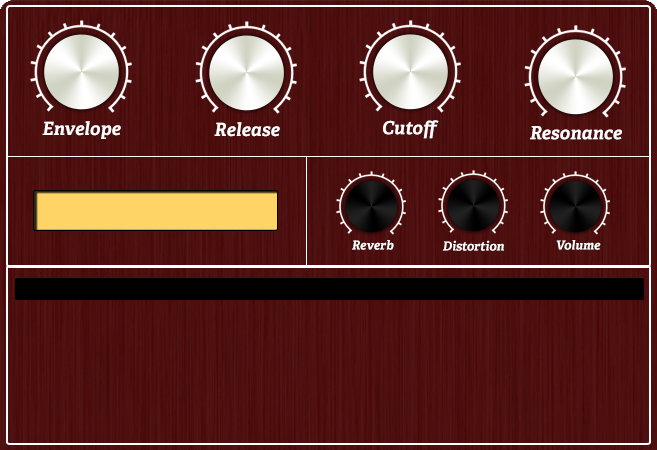
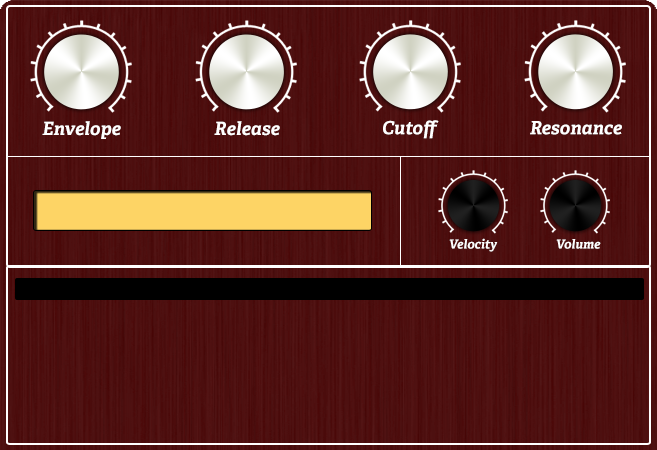
Fixed deck image Added knob controls + velocity knob. remover distortion and reverb

diff --git a/plugins/MorningStar/assets/js/synth.js b/plugins/MorningStar/assets/js/synth.js
@@ -21,7 +21,6 @@ MorningStarSynth.synth = {
     /* unsigned int */ resonance : 100,
     /* unsigned int */ volume : 100,
     /* unsigned int */ portamento : 64,
-    dist : 0
 };
 
 MorningStarSynth.synth.tanh = function (arg) {
@@ -79,14 +78,6 @@ if (len == 2) len = data[0].length;
             this.sample = this.sample * 0.5 + this.lastsample * 0.5;
             this.lastsample = this.sample;
             
-            if (this.IMPLEMENT_DISTORTION === true) {
-                // 0-value gives no distortion, bypass explicitly.
-                if ((this.dist >= 0) && (this.dist < 1)) {
-                    var k = 2 * this.dist / (1 - this.dist);
-                    this.sample += (1 + k) * this.sample / (1+ k * Math.abs(this.sample));
-                }
-            }
-            
             // Velocity control does nothing, had to use it as a gain here.
             var curr_sample = this.sample * (this.volume / 127) * (this.vel / 127) ;
             
@@ -128,28 +119,6 @@ MorningStarSynth.synth.init = function (sampleRate) {
     this.bypass = false;
 }
 
-MorningStarSynth.prototype.setConvoBuffer = function (response) {
-    this.response = response;
-}
-
-MorningStarSynth.prototype.createWSCurve = function (amount, n_samples) {
-    
-    if ((amount >= 0) && (amount < 1)) {
-        
-        MorningStarSynth.synth.dist = amount;
-
-        var k = 2 * MorningStarSynth.synth.dist / (1 - MorningStarSynth.synth.dist);
-
-        for (var i = 0; i < n_samples; i+=1) {
-            // LINEAR INTERPOLATION: x := (c - a) * (z - y) / (b - a) + y
-            // a = 0, b = 2048, z = 1, y = -1, c = i
-            var x = (i - 0) * (1 - (-1)) / (n_samples - 0) + (-1);
-            this.wsCurve[i] = (1 + k) * x / (1+ k * Math.abs(x));
-        }
-   
-    }
-}
-
 MorningStarSynth.prototype.process = function(event) {
     // Get left/right input and output arrays
     var outputArray = [];
@@ -166,36 +135,15 @@ MorningStarSynth.prototype.init = function (context, destination) {
 
     this.context = context;
 
-    this.setDistortion(0);
     MorningStarSynth.synth.init(this.context.sampleRate);
 
     this.source = this.context.createJavaScriptNode(this.nSamples);
     this.source.onaudioprocess = this.process;
 
-    // Create the convolution buffer from the impulse response
-    /* this.buffer = this.context.createBuffer(this.response, false);
-    console.log("convolution buffer passed");
-    this.convolver = this.context.createConvolver();
-    this.convolver.buffer = this.buffer; */
-    
-    /*this.convolver = this.context.createGainNode();
-    
-    // Create the sigmoid curve for  the waveshaper.
-    this.createWSCurve(MorningStarSynth.synth.dist, this.nSamples);
-    this.sigmaDistortNode = this.context.createWaveShaper();
-    this.sigmaDistortNode.curve = this.wsCurve;
-    this.sigmaDistortNode.connect(this.convolver);
-
-    // Connect the script node to the distorsor
-    this.source.connect(this.sigmaDistortNode);
-
-    // This gain note is not used at the moment.
     this.gainNode = this.context.createGainNode();
-    this.convolver.connect(this.gainNode);
+	this.source.connect(this.gainNode);
+    this.gainNode.connect(destination);
 
-    this.sigmaDistortNode.connect(destination);
-    this.gainNode.connect(destination);*/
-    this.source.connect(destination);
     
 };
 
@@ -222,6 +170,8 @@ MorningStarSynth.prototype.noteOff = function (noteNum) {
     }
 }
 
+// Setters
+
 MorningStarSynth.prototype.setCutoff = function (cutoffValue) {
     MorningStarSynth.synth.cutoff = cutoffValue;
 }
@@ -243,24 +193,39 @@ MorningStarSynth.prototype.setEnvelope = function (envValue) {
 }
 
 MorningStarSynth.prototype.setVolume = function (volValue) {
-    MorningStarSynth.synth.volume = volValue;
+    this.gainNode.gain.value = volValue;
 }
 
 MorningStarSynth.prototype.setBypass = function (bypassON) {
     MorningStarSynth.synth.bypass = bypassON;
 }
 
-MorningStarSynth.prototype.setReverb = function (revValue) {
-    this.gainNode.gain.value = revValue;
+//Getters
+
+MorningStarSynth.prototype.getCutoff = function () {
+    return MorningStarSynth.synth.cutoff;
 }
 
-MorningStarSynth.prototype.setDistortion = function (distValue) {
-    var distCorrect = distValue;
-    if (distValue < -1) {
-        distCorrect = -1;
-    }
-    if (distValue >= 1) {
-        distCorrect = 0.985;
-    }
-    this.createWSCurve (distCorrect, this.nSamples);
+MorningStarSynth.prototype.getResonance = function () {
+    return MorningStarSynth.synth.resonance;
+}
+
+MorningStarSynth.prototype.getPortamento = function () {
+    return MorningStarSynth.synth.portamento;
+}
+
+MorningStarSynth.prototype.getRelease = function () {
+    return MorningStarSynth.synth.release;
+}
+
+MorningStarSynth.prototype.getEnvelope = function () {
+    return MorningStarSynth.synth.envmod;
+}
+
+MorningStarSynth.prototype.getVolume = function () {
+    return this.gainNode.gain.value;
+}
+
+MorningStarSynth.prototype.getBypass = function () {
+    return MorningStarSynth.synth.bypass;
 }

diff --git a/plugins/MorningStar/MorningStar.js b/plugins/MorningStar/MorningStar.js
@@ -29,6 +29,9 @@ define(['require'], function(require) {
         this.audioDestination = args.audioDestinations[0];
         this.context = args.audioContext;
         var context = this.context;
+		
+		this.velocity = 1;
+		
         this.MSS = new MorningStarSynth();
         this.MSS.init(context, this.audioDestination);
         
@@ -75,7 +78,7 @@ define(['require'], function(require) {
             }
             
             if (value === 1) {
-                this.MSS.noteOn(stPower - 33, 127);
+                this.MSS.noteOn(stPower - 33, this.velocity);
             }
             else if (value === 0) {
                 this.MSS.noteOff();
@@ -120,13 +123,12 @@ define(['require'], function(require) {
                 this.ui.addElement(new K2.Button(blackKeyArgs), {zIndex: 10});
             }
             
-        this.knobDescription = [ {id: 'envelope', init: 0, type: 'white'},
-                                 {id: 'release', init: 0, type: 'white'},
-                                 {id: 'cutoff', init: 0, type: 'white'},
-                                 {id: 'resonance', init: 0, type: 'white'},
-                                 {id: 'reverb', init: 0, type: 'black'},
-                                 {id: 'distortion', init: 0, type: 'black'},
-                                 {id: 'volume', init: 0, type: 'black'},
+        this.knobDescription = [ {id: 'envelope', init: K2.MathUtils.linearRange (0, 127, 0, 1, this.MSS.getEnvelope()), type: 'white'},
+                                 {id: 'release', init: K2.MathUtils.linearRange (0, 127, 0, 1, this.MSS.getRelease()), type: 'white'},
+                                 {id: 'cutoff', init: K2.MathUtils.linearRange (0, 127, 0, 1, this.MSS.getCutoff()), type: 'white'},
+                                 {id: 'resonance', init: K2.MathUtils.linearRange (0, 127, 0, 1, this.MSS.getResonance()), type: 'white'},
+                                 {id: 'velocity', init: this.velocity, type: 'black'},
+                                 {id: 'volume', init: this.MSS.getVolume(), type: 'black'},
                               ];
         /* KNOB INIT */
        var knobArgs = {
@@ -138,7 +140,33 @@ define(['require'], function(require) {
             initAngValue: 270,
             startAngValue: 218,
             stopAngValue: 501,
-            onValueSet: function (slot, value) {
+            onValueSet: function (slot, value, element) {
+				switch (element) {
+					case 'volume':
+						this.MSS.setVolume(value);
+					    break;
+					case 'velocity':
+						var velocity = K2.MathUtils.linearRange (0, 1, 0, 127, value);
+						this.velocity = Math.round(velocity);
+					    break;
+					case 'envelope':
+						var envelope = K2.MathUtils.linearRange (0, 1, 0, 127, value);
+						this.MSS.setEnvelope(envelope);
+					    break;
+					case 'release':
+						var release = K2.MathUtils.linearRange (0, 1, 0, 127, value);
+						this.MSS.setRelease(release);
+						break;
+					case 'cutoff':
+						var cutoff = K2.MathUtils.linearRange (0, 1, 0, 127, value);
+						this.MSS.setCutoff(cutoff);
+					    break;	
+					case 'resonance':
+						var resonance = K2.MathUtils.linearRange (0, 1, 0, 127, value);
+						this.MSS.setResonance(resonance);
+					    break;	
+					
+				}
                 
                 this.ui.refresh();
             }.bind(this),
@@ -147,7 +175,7 @@ define(['require'], function(require) {
         
         var whiteInit = 44;
         var whiteSpacing = 165;
-        var blackInit = 346;
+        var blackInit = 347;
         var blackSpacing = 101;
         var whiteTop = 34;
         var blackTop = 180;
@@ -165,7 +193,7 @@ define(['require'], function(require) {
             else if (currKnob.type === 'black') {
                 knobArgs.image = blackKnobImage;
                 knobArgs.top = blackTop;
-                knobArgs.left = (blackInit + (i - 4) * blackSpacing);
+                knobArgs.left = (blackInit + (i - 3) * blackSpacing);
             }
              
             this.ui.addElement(new K2.RotKnob(knobArgs));
